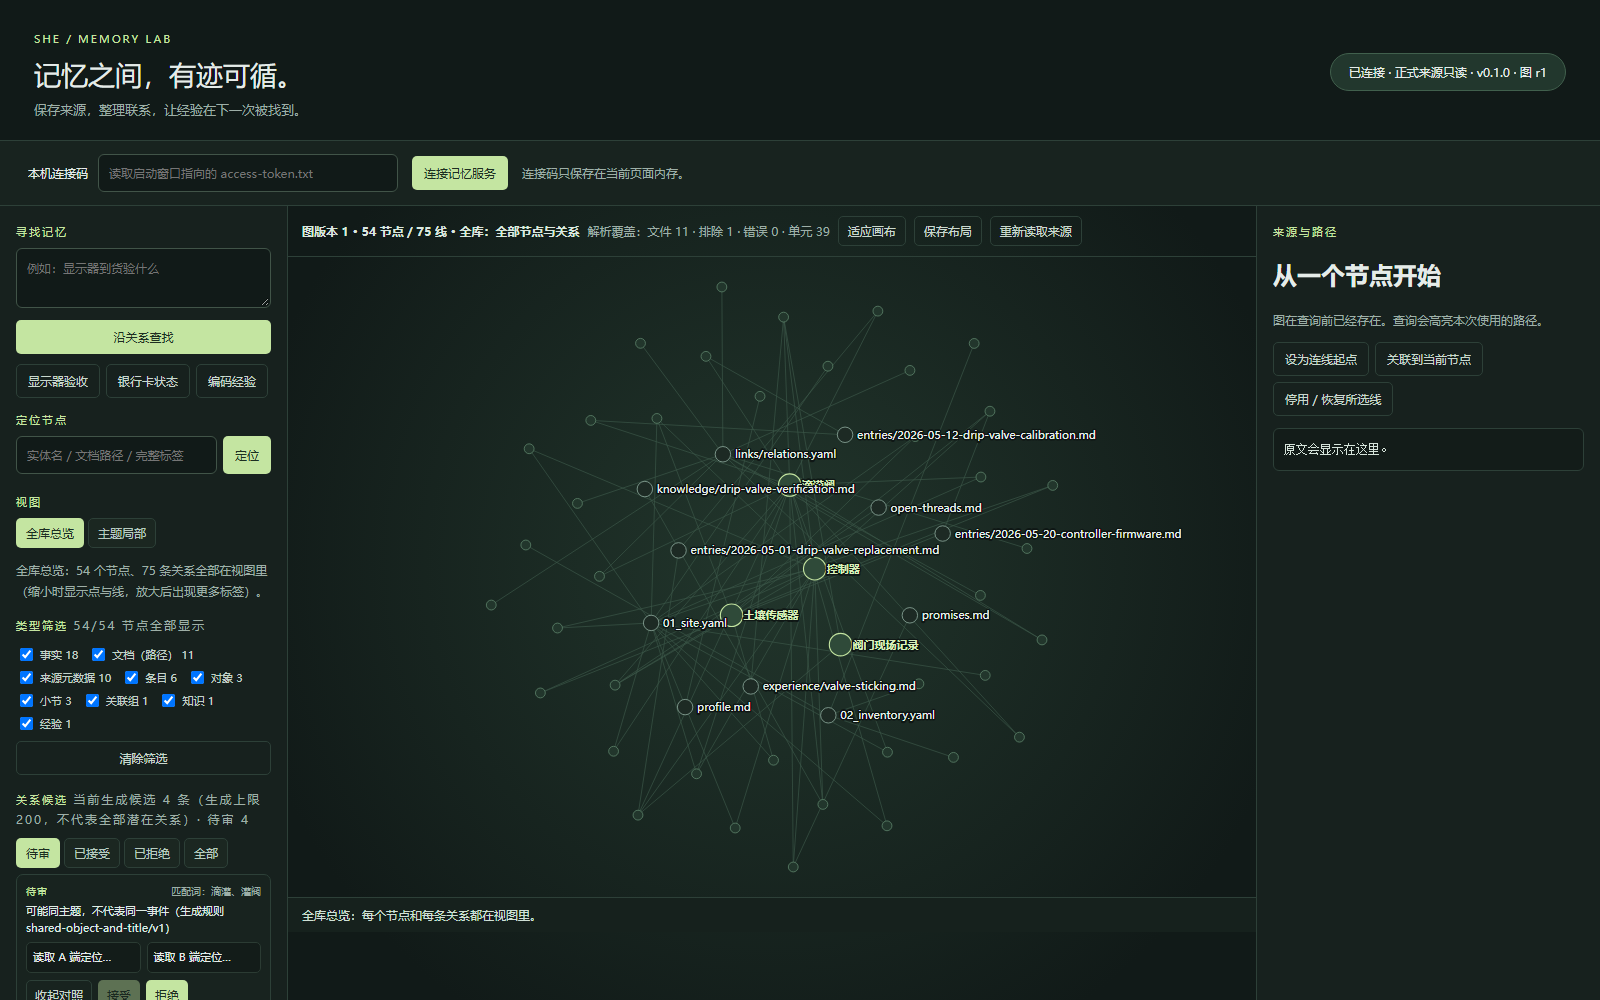
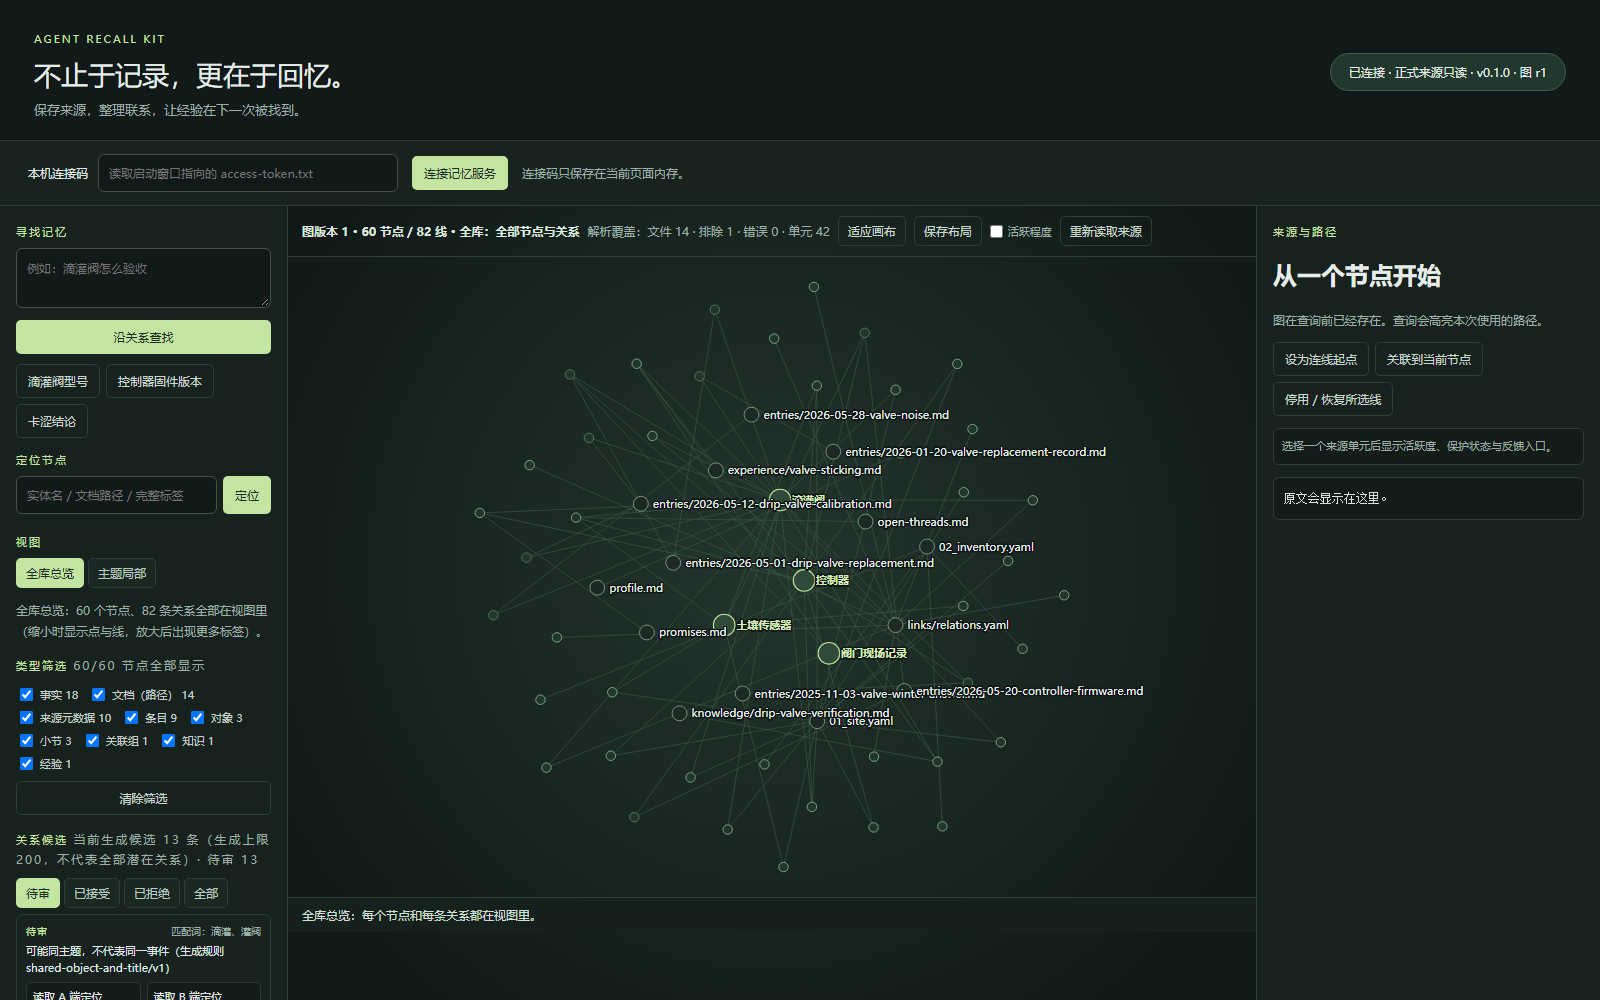
Final polish: demo homepage prompts, unified tagline, config-relative backups, real 409 flow, screenshots from installed assets

diff --git a/src/she_memory/web/index.html b/src/she_memory/web/index.html
@@ -1,14 +1,14 @@
 <!doctype html>
-<html lang="zh-CN"><head><meta charset="utf-8"><meta name="viewport" content="width=device-width,initial-scale=1"><title>She · 记忆图谱</title><link rel="icon" href="data:,"><link rel="stylesheet" href="/style.css"></head>
+<html lang="zh-CN"><head><meta charset="utf-8"><meta name="viewport" content="width=device-width,initial-scale=1"><title>Agent Recall Kit · 记忆图谱</title><link rel="icon" href="data:,"><link rel="stylesheet" href="/style.css"></head>
 <body>
-<header><div><span class="eyebrow">AGENT RECALL KIT</span><h1>记忆之间，有迹可循。</h1><p>保存来源，整理联系，让经验在下一次被找到。</p></div><div class="badge" id="status">尚未连接</div></header>
+<header><div><span class="eyebrow">AGENT RECALL KIT</span><h1>不止于记录，更在于回忆。</h1><p>保存来源，整理联系，让经验在下一次被找到。</p></div><div class="badge" id="status">尚未连接</div></header>
 <section class="connect" id="connection"><label>本机连接码 <input id="token" type="password" placeholder="读取启动窗口指向的 access-token.txt" autocomplete="off"></label><button id="connect">连接记忆服务</button><span>连接码只保存在当前页面内存。</span></section>
 <main>
 <aside class="left">
   <div class="section-label">寻找记忆</div>
-  <textarea id="question" rows="2" placeholder="例如：显示器到货验什么"></textarea>
+  <textarea id="question" rows="2" placeholder="例如：滴灌阀怎么验收"></textarea>
   <button id="query">沿关系查找</button>
-  <div class="chips"><button data-query="显示器到货验什么">显示器验收</button><button data-query="银行卡到了没">银行卡状态</button><button data-query="中文替换怎么处理">编码经验</button></div>
+  <div class="chips"><button data-query="滴灌阀型号是什么">滴灌阀型号</button><button data-query="控制器固件版本是多少">控制器固件版本</button><button data-query="低温卡涩的结论是什么">卡涩结论</button></div>
 
   <div class="section-label">定位节点</div>
   <div class="search-row"><input id="search" placeholder="实体名 / 文档路径 / 完整标签"><button id="search-go">定位</button></div>
@@ -53,5 +53,5 @@
   <div id="results"></div>
 </aside>
 </main>
-<footer>Memory Brain 0.1 · 图书馆与索引员 · 不承担聊天人格或自动执行</footer>
+<footer>Agent Recall Kit 0.1 · 本地记忆服务 · 不承担聊天人格或自动执行</footer>
 <script src="/app.js"></script></body></html>

diff --git a/src/she_memory/web/app.js b/src/she_memory/web/app.js
@@ -1,4 +1,4 @@
-'use strict';
+'use strict';
 // She 记忆图谱：全库总览 / 主题局部 / 候选审核
 // 约定：接口字段只读不改；所有数量来自同一次 /v1/graph/view 响应。
 
@@ -406,7 +406,11 @@ async function setPin(unit, pinned) {
     await loadGraph({keepView: true});
     notice(pinned ? '已保护：这条记录不再随时间衰减。' : '已取消保护：按它原来的时间轨迹计算，不伪造新生日。');
   } catch (error) {
-    notice(`未完成：${ERROR_TEXT[error.message] || error.message}` + (error.message === 'revision_conflict' ? '（请重新读取后再试）' : ''));
+    if (error.message === 'revision_conflict') {
+      notice('版本冲突：图已经被别的操作更新（当前页不是最新），请先重新读取，再重试保护。本次没有写入任何状态。');
+    } else {
+      notice(`保护未写入：${ERROR_TEXT[error.message] || error.message}`);
+    }
   }
 }
 
@@ -424,7 +428,11 @@ async function sendFeedback(unit, result) {
       ? (answer.effective ? '已记录「有帮助」：活跃度回升。' : '已记录「有帮助」（同一 UTC 日已强化过一次，本次不再累加）。')
       : '已记录「没帮助」：只记账，不降权。');
   } catch (error) {
-    notice(`反馈未写入：${ERROR_TEXT[error.message] || error.message}`);
+    if (error.message === 'revision_conflict') {
+      notice('版本冲突：图已经被别的操作更新，请先重新读取，再重试反馈。本次没有任何反馈被写入。');
+    } else {
+      notice(`反馈未写入：${ERROR_TEXT[error.message] || error.message}`);
+    }
   }
 }
 const UNIT_KIND_TEXT = {
@@ -850,3 +858,6 @@ $('canvas').addEventListener('pointerup', ev => {
 window.addEventListener('resize', () => applyView());
 ensureLabelPool();
 applyView();
+
+// 调试用只读句柄（不影响任何行为；验收脚本用它读取 revision/选中项）
+window.__she = S;

diff --git a/tests/test_workflows.py b/tests/test_workflows.py
@@ -1,4 +1,4 @@
-"""候选裁定、停用/恢复、布局隔离、单实例、备份。"""
+"""候选裁定、停用/恢复、布局隔离、单实例、备份。"""
 import json
 import os
 import socket
@@ -118,3 +118,27 @@ def test_backup_verify_and_isolated_restore(workspace, tmp_path):
     assert (restored / "manifest.json").is_file()
     # 恢复目录非空时拒绝覆盖
     assert backup.main(["restore", "--archive", str(archive), "--to", str(restored)]) == 1
+
+def test_backup_default_dir_ignores_cwd(workspace, tmp_path, monkeypatch):
+    """默认备份目录由配置决定：两个不同 cwd 都落到同一处，且 cwd 里不新增 backups。"""
+    import time
+    from pathlib import Path as _Path
+    from she_memory.common import load_config
+    from she_memory.tools import backup
+
+    cfg = load_config(str(workspace["config"]))
+    default = _Path(cfg["state_root"]).parent / "backups"
+    assert not default.exists()
+    assert not default.resolve().is_relative_to(_Path(cfg["memory_root"]).resolve())
+
+    for name in ("cwd-one", "cwd-two"):
+        cwd = tmp_path / name
+        cwd.mkdir()
+        monkeypatch.chdir(cwd)
+        assert backup.main(["create", "--config", str(workspace["config"])]) == 0
+        assert not (cwd / "backups").exists()
+        time.sleep(1.1)          # 文件名按秒打戳，避免两次同秒覆盖
+
+    archives = sorted(default.glob("*.zip"))
+    assert len(archives) == 2, archives
+    assert backup.main(["verify", "--archive", str(archives[-1])]) == 0

diff --git a/src/she_memory/tools/backup.py b/src/she_memory/tools/backup.py
@@ -54,7 +54,17 @@ def collect(cfg):
 
 
 def cmd_create(cfg, out_dir):
-    out = Path(out_dir).resolve() if out_dir else Path.cwd() / "backups"
+    out = Path(out_dir).resolve() if out_dir else Path(cfg["state_root"]).parent / "backups"
+    # 默认目录由配置决定、与 cwd 无关；也绝不允许落在来源目录里（否则备份会被当成来源递归收录）
+    source = Path(cfg["memory_root"]).resolve()
+    try:
+        out.resolve().relative_to(source)
+    except ValueError:
+        pass
+    else:
+        print(json.dumps({"ok": False, "error": "backup_inside_source", "target": str(out)},
+                         ensure_ascii=False))
+        return 1
     out.mkdir(parents=True, exist_ok=True)
     stamp = time.strftime("%Y%m%d-%H%M%S")
     archive = out / f"agent-recall-kit-backup-{stamp}.zip"
@@ -115,7 +125,7 @@ def main(argv=None):
     base.add_argument("--config", default=argparse.SUPPRESS)
 
     p_create = sub.add_parser("create", parents=[base], help="创建备份")
-    p_create.add_argument("--out", help="备份输出目录（默认 ./backups）")
+    p_create.add_argument("--out", help="备份输出目录（默认 <state_root>/../backups，与 cwd 无关）")
     p_verify = sub.add_parser("verify", parents=[base], help="校验备份")
     p_verify.add_argument("--archive", required=True)
     p_restore = sub.add_parser("restore", parents=[base], help="隔离恢复（解到空目录）")

diff --git a/docs/OPS.md b/docs/OPS.md
@@ -36,7 +36,8 @@ agent-recall-kit-doctor --config .\my-data\agent-recall-kit.json
 ## 备份 / 校验 / 隔离恢复
 
 ```powershell
-agent-recall-kit-backup create --config .\my-data\agent-recall-kit.json --out .\backups
+agent-recall-kit-backup create --config .\my-data\agent-recall-kit.json   # 默认写到 my-data\data\backups
+agent-recall-kit-backup create --config .\my-data\agent-recall-kit.json --out D:\somewhere\bk   # 覆盖
 agent-recall-kit-backup verify --archive .\backups\agent-recall-kit-backup-*.zip
 agent-recall-kit-backup restore --archive .\backups\....zip --to .\restored-copy
 ```

diff --git a/README.md b/README.md
@@ -1,5 +1,7 @@
 # Agent Recall Kit
 
+> **不止于记录，更在于回忆。**
+
 本地、可追溯的 Agent 记忆工具包 · 0.1.0 预览版
 
 本地、可追溯的记忆服务预览版：把你的 Markdown/YAML 资料读成一张**带来源**的图，
